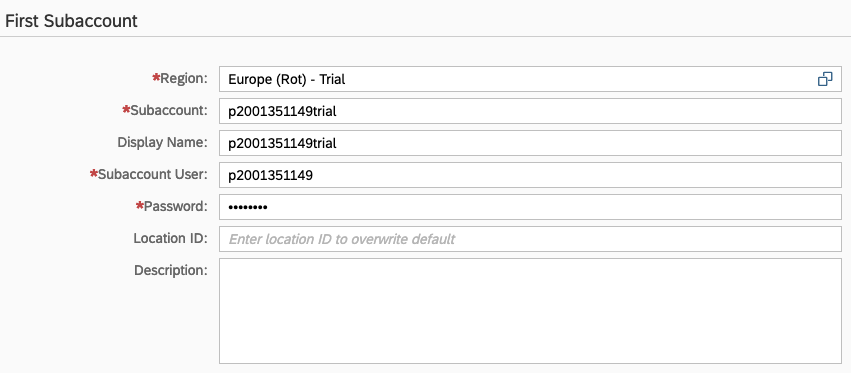
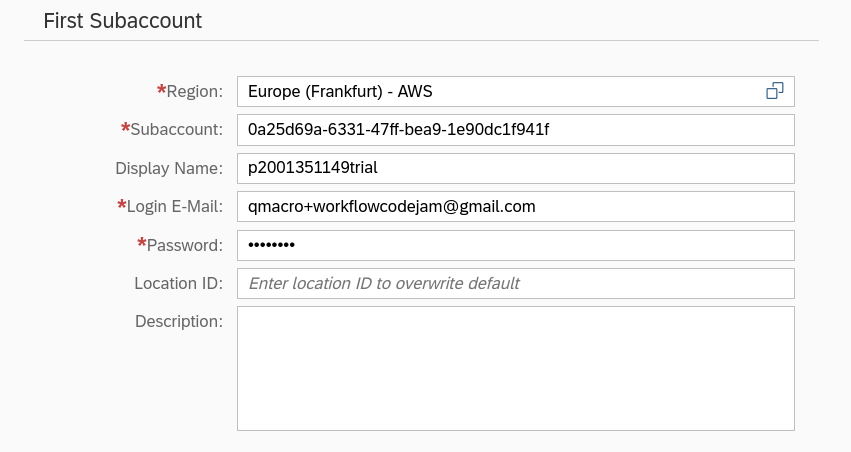
work on conversion from Neo to CF with SCC

Changed region(s): [[0.0917, 0.1769, 1.0, 0.7373], [0.0, 0.0295, 0.9777, 0.118]]

diff --git a/exercises/03/readme.md b/exercises/03/readme.md
@@ -131,11 +131,21 @@ _Note: Your browser will likely warn you that the site is insecure, because the 
 
 Next, you're asked to specify an initial subaccount that you want the SAP Cloud Connector to connect to (you can connect it to multiple subaccounts but we will only specify this initial one in this exercise).
 
-:point_right: Specify the appropriate details for your subaccount. A trial subaccount in the Neo environment means you must choose the "Europe (Rot) - Trial" value for the "Region" parameter. Refer to the example below. When you're done, leave other parameters as they are and complete the initial setup with the "Save" icon on the right hand side.
+:point_right: Specify the appropriate details for your trial subaccount, as follows:
+
+- "Region": select the entry that reflects the Cloud Foundry API endpoint URL that is related to the organization connected to your trial subaccount. In other words, you can search by entering `cf.eu10` in the selection search box to find and select "Europe (Frankfurt) - AWS" which corresponds to `cf.eu10.hana.ondemand.com`
+
+- "Subaccount": this should be the ID of your trial subaccount, as shown in the screenshot
+
+  ![subaccount ID](subaccountid.png)
+
+- "Display Name": specify anything you want here; we recommend you use the Subdomain name of the subaccount
+
+- "Login E-Mail" and "Password": these credentials are the ones related to your trial account
+
+- Leave other parameters as they are, and then complete the initial setup with the "Save" button on the right hand side
 
 ![subaccount details](subaccountdetails.png)
-
-_Note: Notice the difference between the trial subaccount name and username - the username is the same as the subaccount name without the "trial" suffix._
 
 At this point, your SAP Cloud Connector, running in a container on your machine, is now up and running with a secure tunnel established to your subaccount on the SAP Cloud Platform. You should see a status page in the SAP Cloud Connector administration UI that looks something like this:
 
